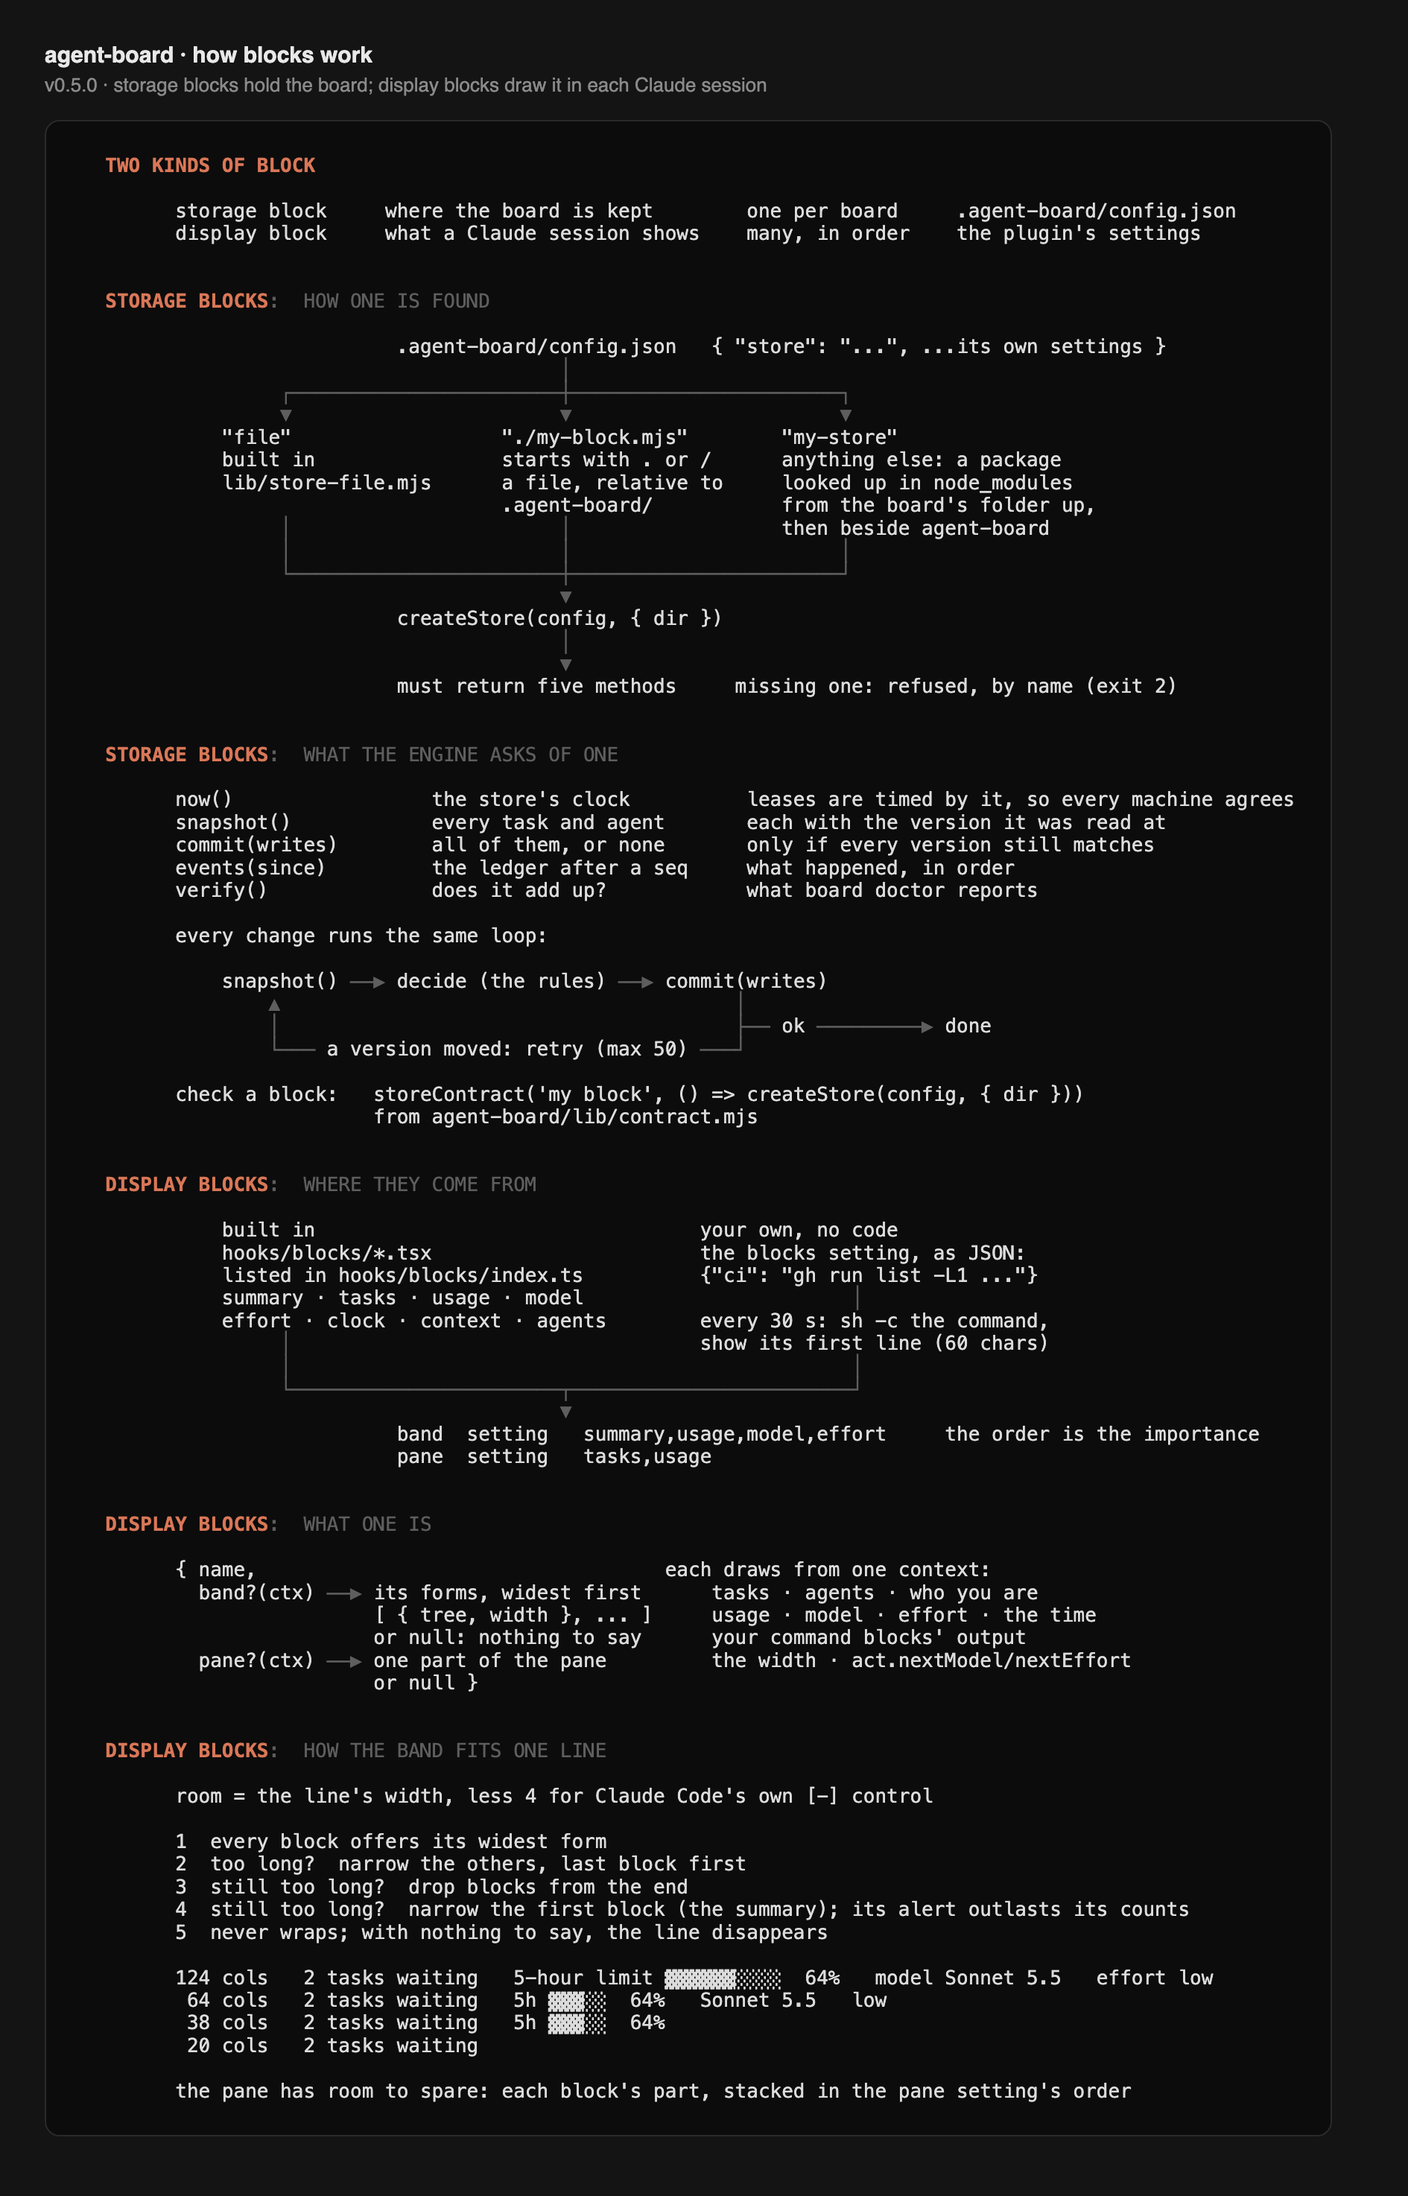
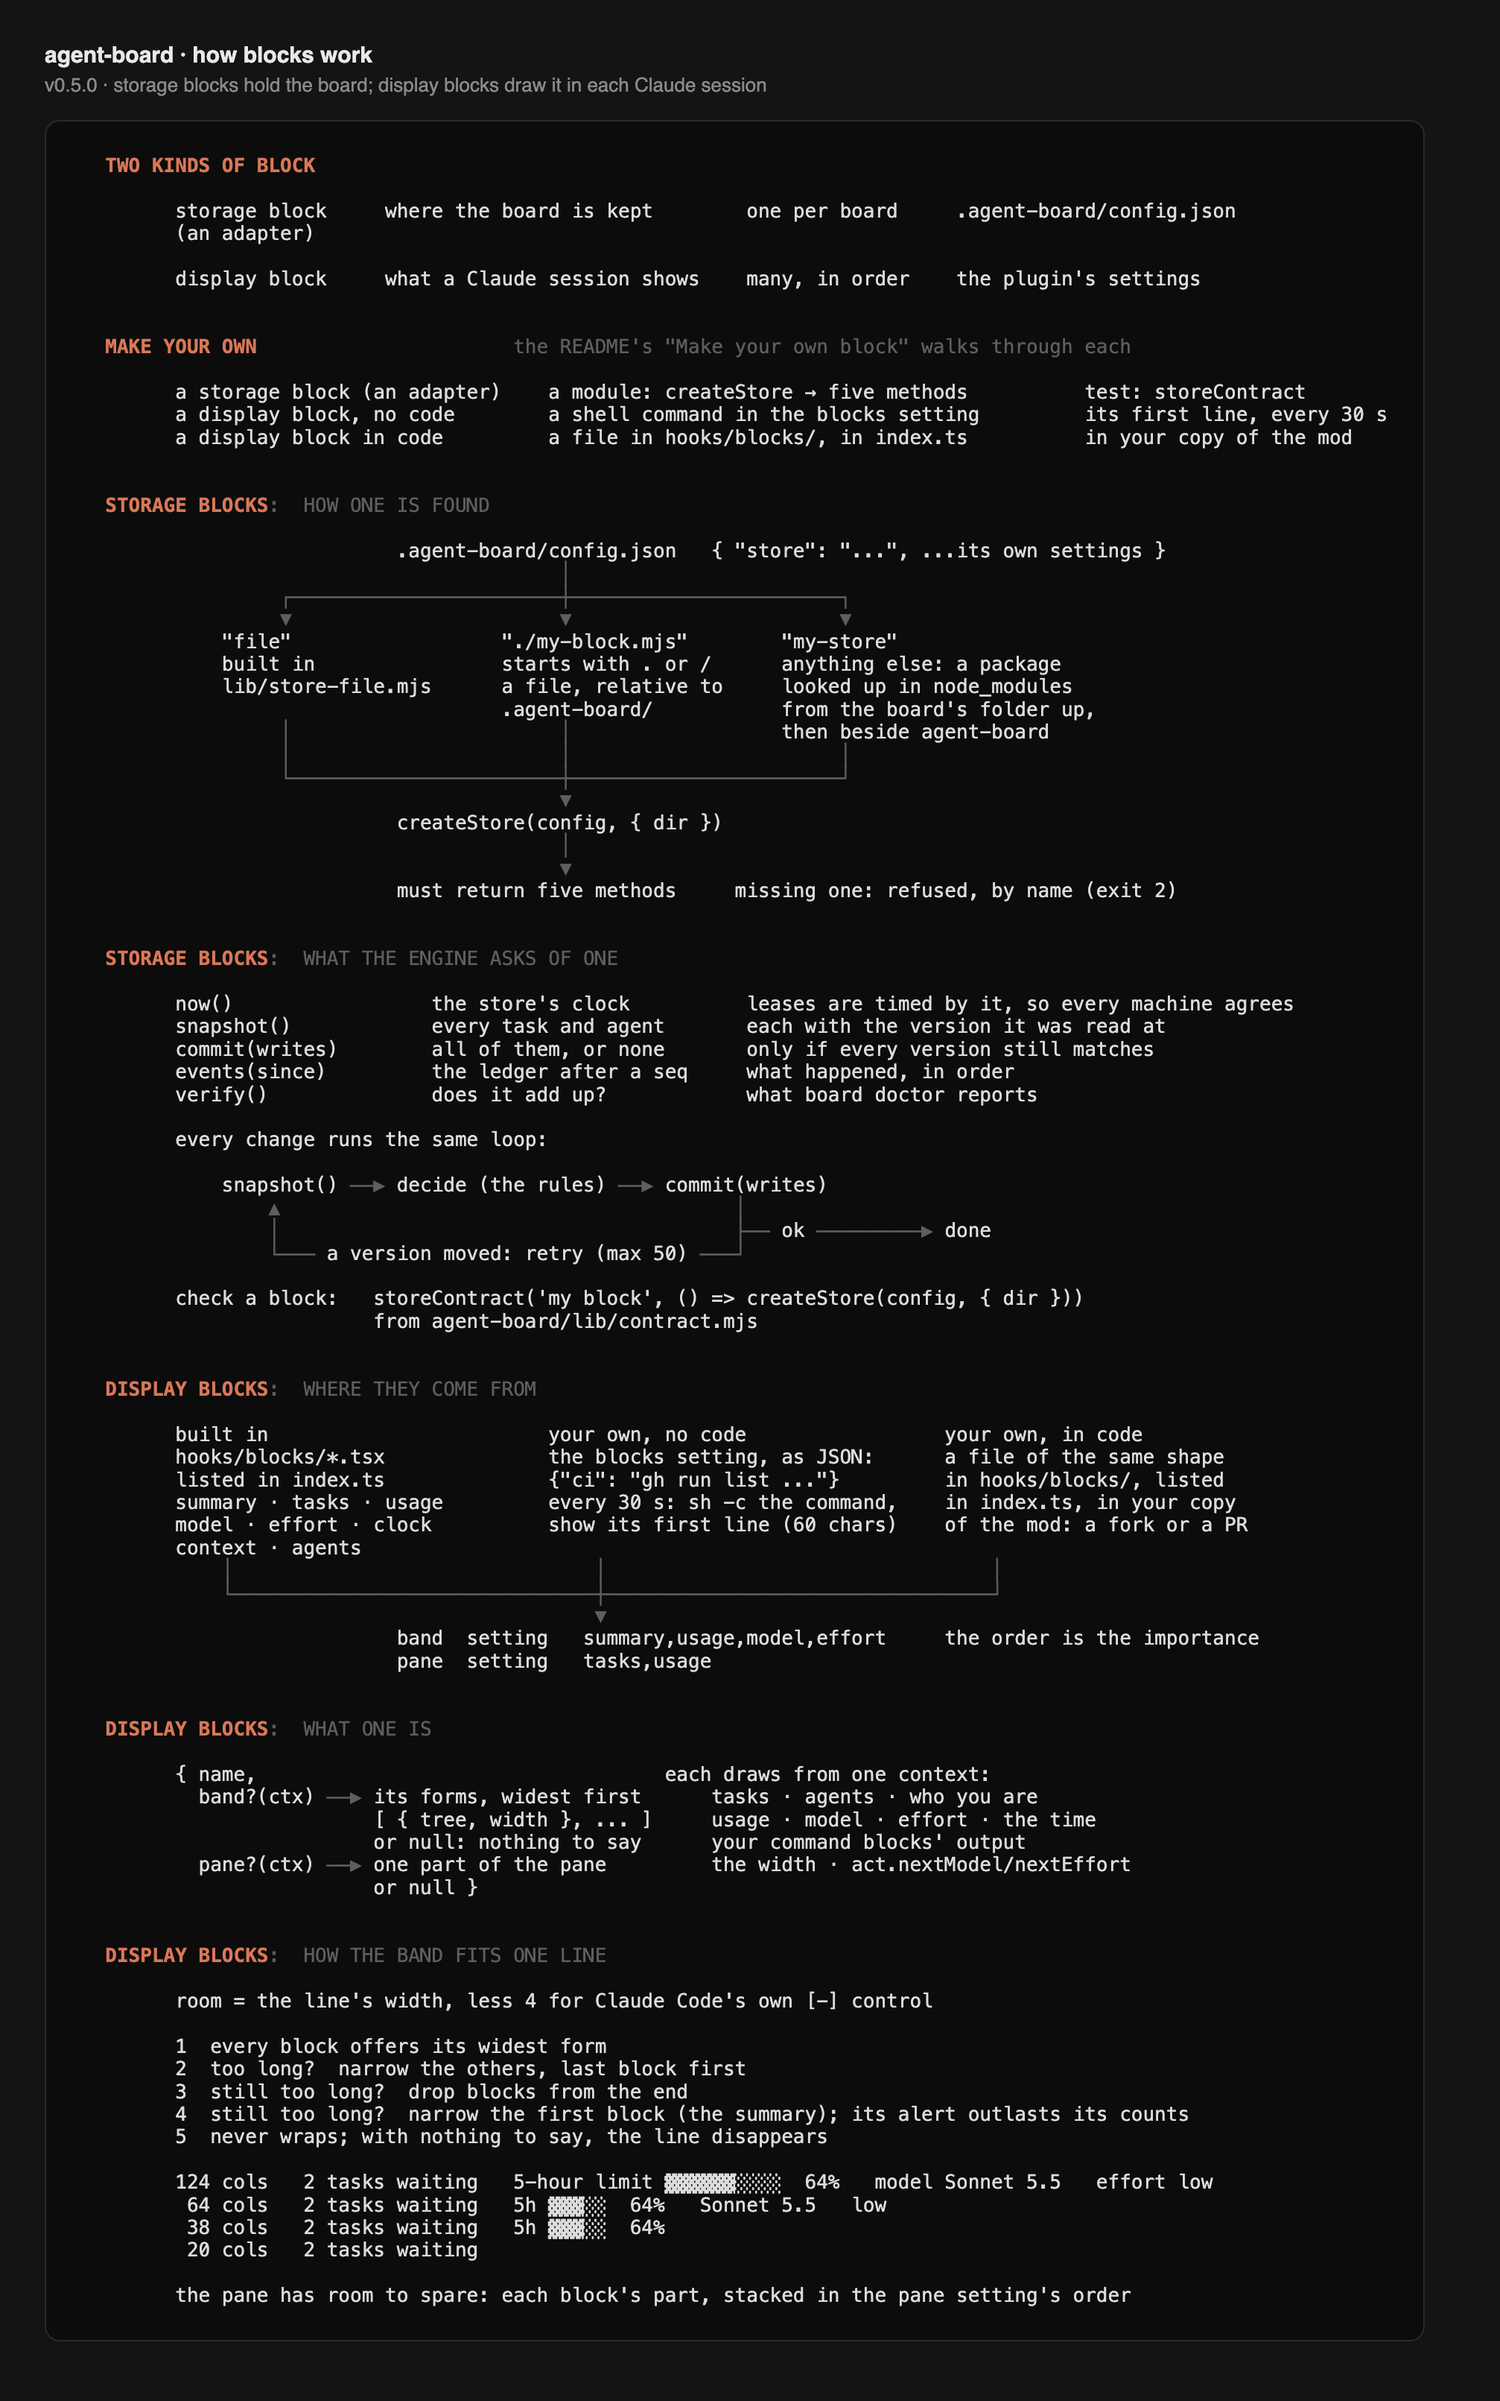
Blocks diagram: name the adapter, show the three ways to make your own

diff --git a/docs/blocks.html b/docs/blocks.html
@@ -13,7 +13,16 @@
   <pre><span class="h">  TWO KINDS OF BLOCK</span><span class="d"></span>
 
         storage block     where the board is kept        one per board     .agent-board/config.json
+        (an adapter)
+
         display block     what a Claude session shows    many, in order    the plugin's settings
+
+
+<span class="h">  MAKE YOUR OWN                      </span><span class="d">the README's "Make your own block" walks through each</span>
+
+        a storage block (an adapter)    a module: createStore → five methods          test: storeContract
+        a display block, no code        a shell command in the blocks setting         its first line, every 30 s
+        a display block in code         a file in hooks/blocks/, in index.ts          in your copy of the mod
 
 
 <span class="h">  STORAGE BLOCKS</span><span class="d">:  HOW ONE IS FOUND</span>
@@ -57,15 +66,15 @@
 
 <span class="h">  DISPLAY BLOCKS</span><span class="d">:  WHERE THEY COME FROM</span>
 
-            built in                                 your own, no code
-            hooks/blocks/*.tsx                       the blocks setting, as JSON:
-            listed in hooks/blocks/index.ts          {"ci": "gh run list -L1 ..."}
-            summary · tasks · usage · model                       <span class="d">│</span>
-            effort · clock · context · agents        every 30 s: sh -c the command,
-                 <span class="d">│</span>                                   show its first line (60 chars)
-                 <span class="d">│</span>                                                <span class="d">│</span>
-                 <span class="d">└</span><span class="d">─</span><span class="d">─</span><span class="d">─</span><span class="d">─</span><span class="d">─</span><span class="d">─</span><span class="d">─</span><span class="d">─</span><span class="d">─</span><span class="d">─</span><span class="d">─</span><span class="d">─</span><span class="d">─</span><span class="d">─</span><span class="d">─</span><span class="d">─</span><span class="d">─</span><span class="d">─</span><span class="d">─</span><span class="d">─</span><span class="d">─</span><span class="d">─</span><span class="d">─</span><span class="d">┬</span><span class="d">─</span><span class="d">─</span><span class="d">─</span><span class="d">─</span><span class="d">─</span><span class="d">─</span><span class="d">─</span><span class="d">─</span><span class="d">─</span><span class="d">─</span><span class="d">─</span><span class="d">─</span><span class="d">─</span><span class="d">─</span><span class="d">─</span><span class="d">─</span><span class="d">─</span><span class="d">─</span><span class="d">─</span><span class="d">─</span><span class="d">─</span><span class="d">─</span><span class="d">─</span><span class="d">─</span><span class="d">┘</span>
-                                         <span class="d">▼</span>
+        built in                        your own, no code                 your own, in code
+        hooks/blocks/*.tsx              the blocks setting, as JSON:      a file of the same shape
+        listed in index.ts              {"ci": "gh run list ..."}         in hooks/blocks/, listed
+        summary · tasks · usage         every 30 s: sh -c the command,    in index.ts, in your copy
+        model · effort · clock          show its first line (60 chars)    of the mod: a fork or a PR
+        context · agents
+            <span class="d">│</span>                               <span class="d">│</span>                                 <span class="d">│</span>
+            <span class="d">└</span><span class="d">─</span><span class="d">─</span><span class="d">─</span><span class="d">─</span><span class="d">─</span><span class="d">─</span><span class="d">─</span><span class="d">─</span><span class="d">─</span><span class="d">─</span><span class="d">─</span><span class="d">─</span><span class="d">─</span><span class="d">─</span><span class="d">─</span><span class="d">─</span><span class="d">─</span><span class="d">─</span><span class="d">─</span><span class="d">─</span><span class="d">─</span><span class="d">─</span><span class="d">─</span><span class="d">─</span><span class="d">─</span><span class="d">─</span><span class="d">─</span><span class="d">─</span><span class="d">─</span><span class="d">─</span><span class="d">─</span><span class="d">┼</span><span class="d">─</span><span class="d">─</span><span class="d">─</span><span class="d">─</span><span class="d">─</span><span class="d">─</span><span class="d">─</span><span class="d">─</span><span class="d">─</span><span class="d">─</span><span class="d">─</span><span class="d">─</span><span class="d">─</span><span class="d">─</span><span class="d">─</span><span class="d">─</span><span class="d">─</span><span class="d">─</span><span class="d">─</span><span class="d">─</span><span class="d">─</span><span class="d">─</span><span class="d">─</span><span class="d">─</span><span class="d">─</span><span class="d">─</span><span class="d">─</span><span class="d">─</span><span class="d">─</span><span class="d">─</span><span class="d">─</span><span class="d">─</span><span class="d">─</span><span class="d">┘</span>
+                                            <span class="d">▼</span>
                            band  setting   summary,usage,model,effort     the order is the importance
                            pane  setting   tasks,usage
 

diff --git a/README.md b/README.md
@@ -207,7 +207,7 @@ kinds:
 | **Storage block** (an adapter) | holds the board: a folder, a database, a server | one per board | `.agent-board/config.json` |
 | **Display block** | draws part of the board inside a Claude session | many, in order | the plugin's `band` and `pane` settings |
 
-![How blocks work: how a storage block is found, what the engine asks of it, where display blocks come from and how the band fits them on one line](docs/blocks.png)
+![How blocks work: the three ways to make your own, how a storage block (an adapter) is found, what the engine asks of it, where display blocks come from and how the band fits them on one line](docs/blocks.png)
 
 The diagram's source is plain text, [`docs/blocks.txt`](docs/blocks.txt).
 
